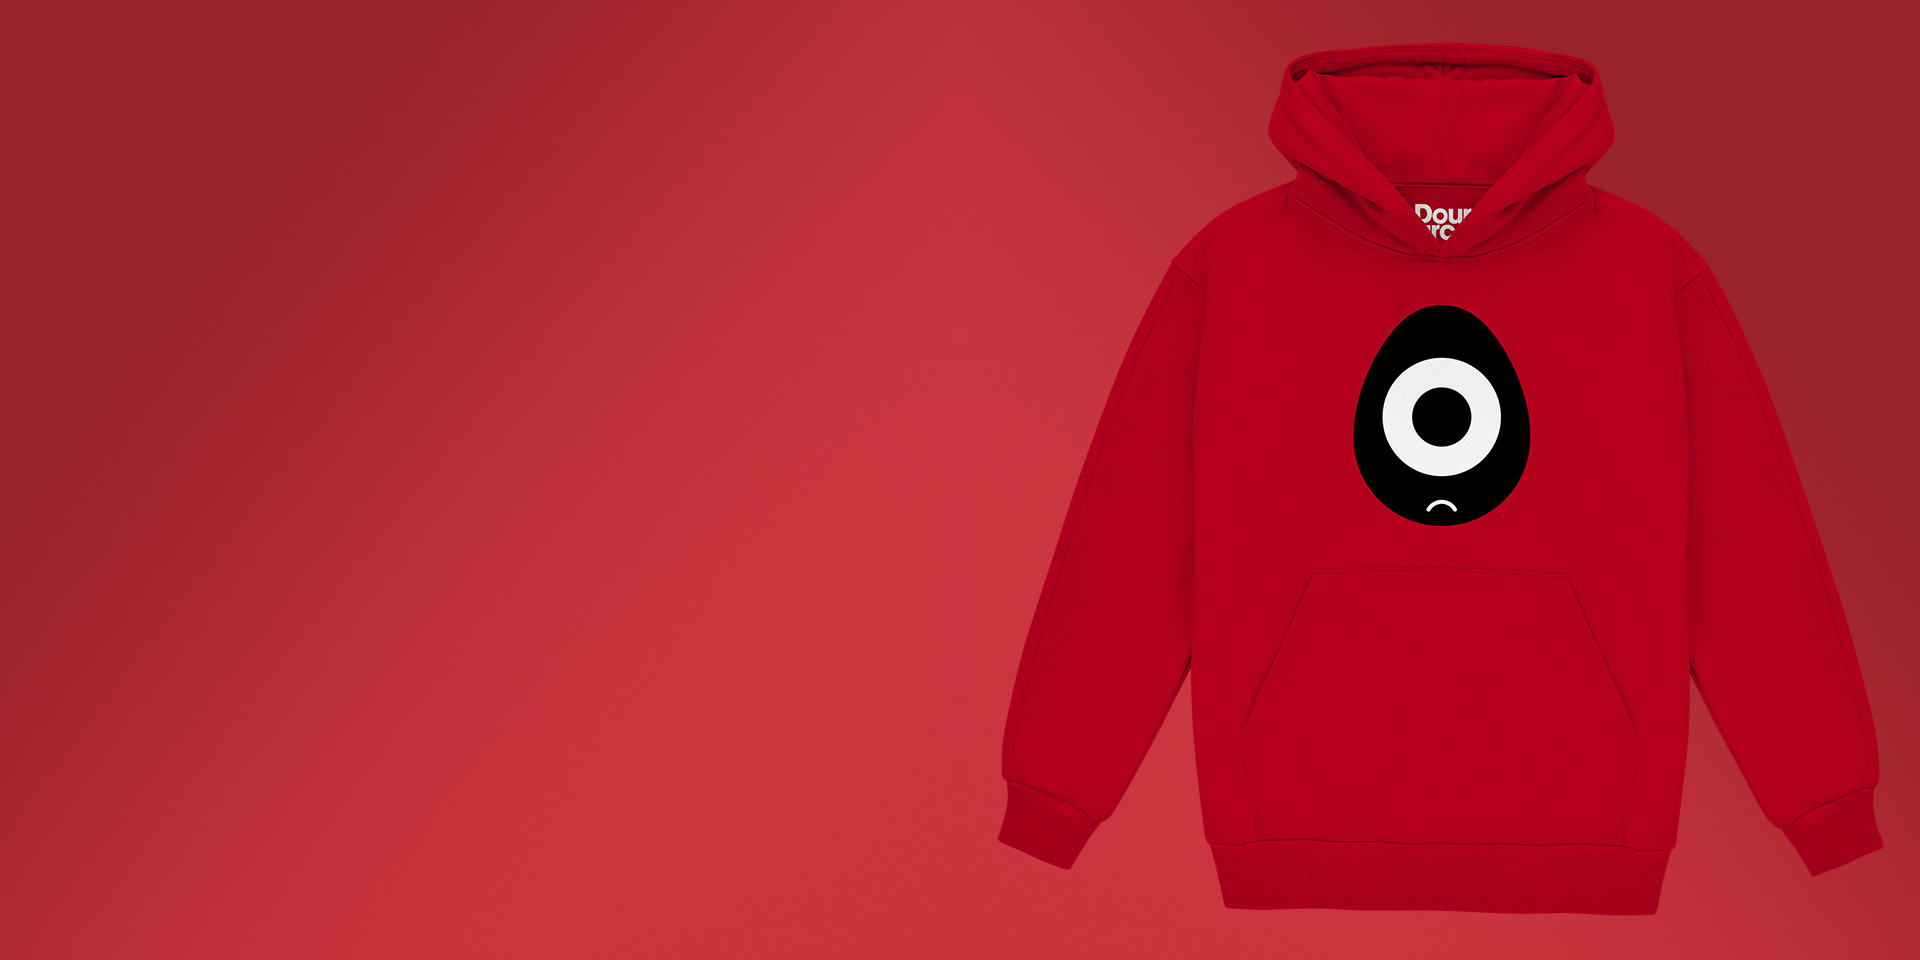
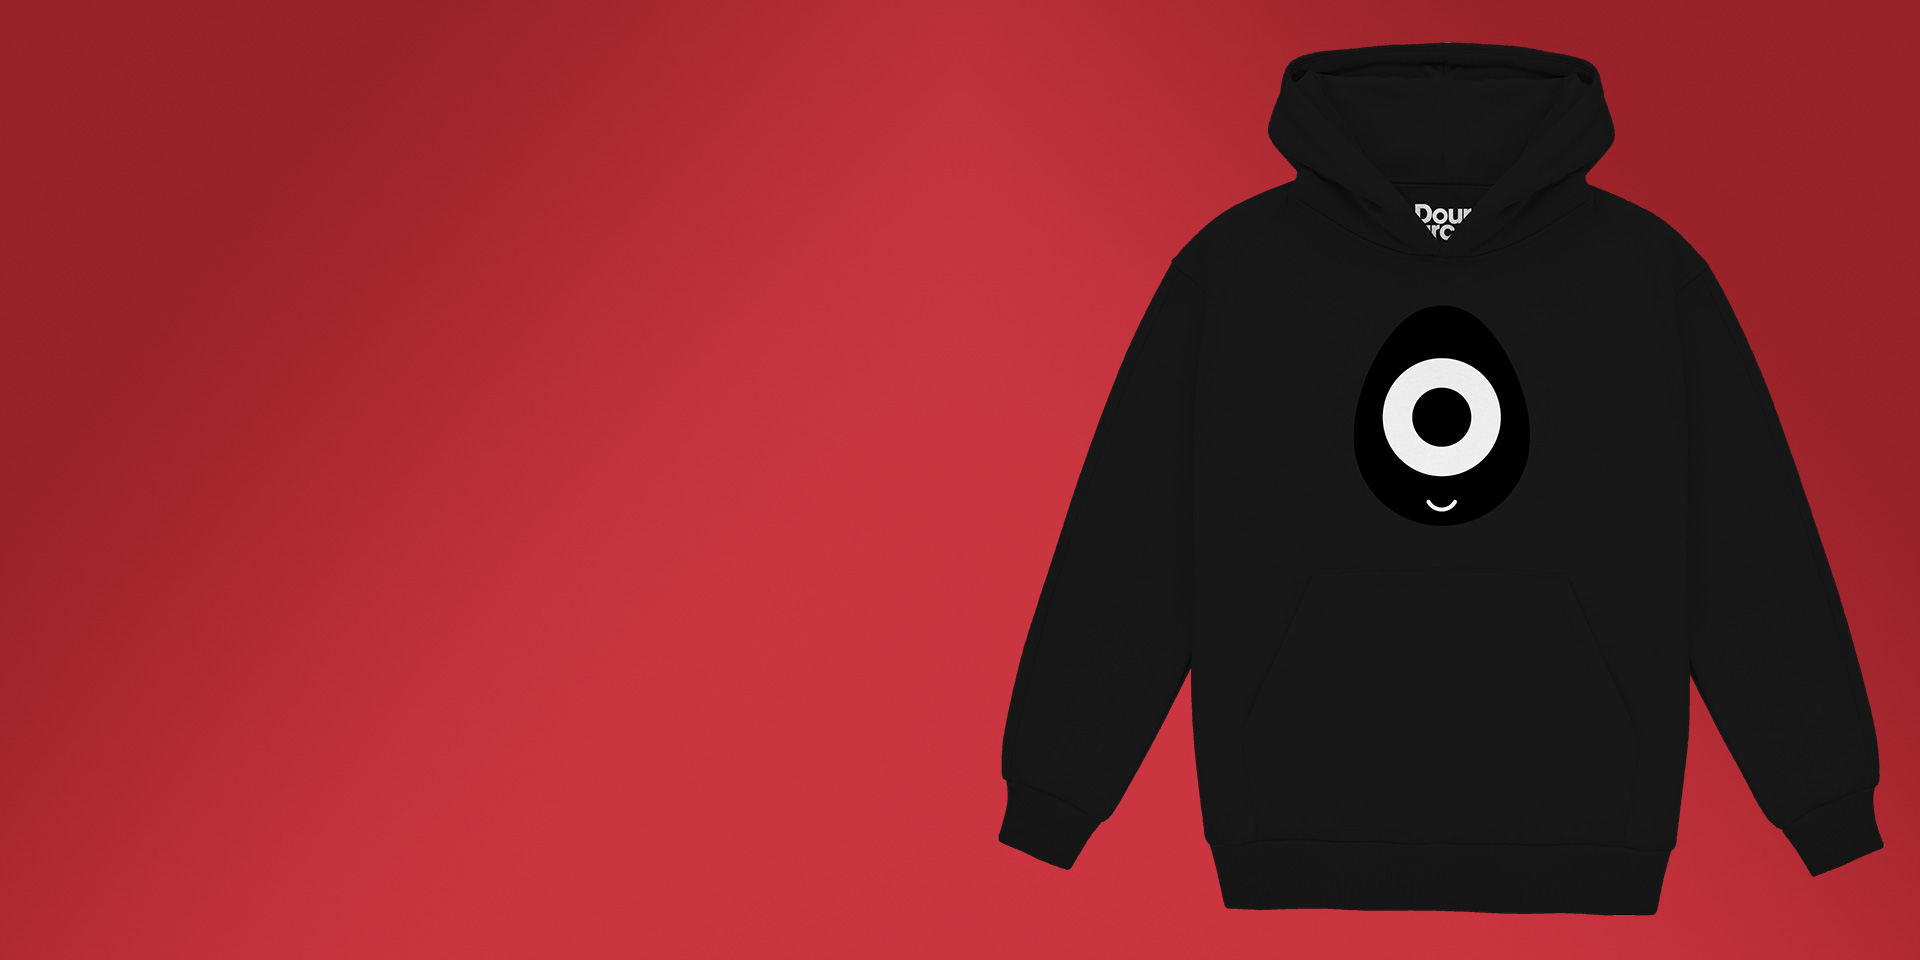
Black hoodie

Changed region(s): [[0.5, 0.0312, 1.0, 0.9688]]

diff --git a/assets/js/section-9.js b/assets/js/section-9.js
@@ -47,6 +47,8 @@ async function validateMerch9(form) {
             const asset = await getOSAsset('0x8d609bd201beaea7dccbfbd9c22851e23da68691', token);
 
             if (asset.owner && asset.owner.address === address) {
+                const payPalID = document.querySelector('input[name="hosted_button_id"]');
+
                 if (color === 'Red') {
                     // Loop token traits
                     for (let x = 0; x < asset.traits.length; x++) {
@@ -57,9 +59,13 @@ async function validateMerch9(form) {
 
                     if (!verified) {
                         errorMessage = 'Your Dour Darcel does not have the \'Darcel T-Shirt\' trait.';
+                    } else {
+                        payPalID.value = '8KWGQW5ZUKBDQ';
                     }
                 } else {
+                    // Black
                     verified = true;
+                    payPalID.value = 'TBC2KCANHSXZ6';
                 }
             }
         }

diff --git a/index.html b/index.html
@@ -155,6 +155,7 @@ https://github.com/awj5
 
                             <select id="section-9-merch-color">
                                 <option value="">Select Color</option>
+                                <option value="Black">Black</option>
                                 <option value="Red">Red</option>
                             </select>
 

diff --git a/assets/css/global.css b/assets/css/global.css
@@ -84,6 +84,7 @@ button {
 }
 
 select {
+    -webkit-appearance: none;
     appearance: none;
     outline: none;
     border: none;
@@ -98,6 +99,7 @@ select {
     background-repeat: no-repeat;
     background-size: 32px 32px;
     background-position: center right 8px;
+    color: #000;
 }
 
 /* Global */
